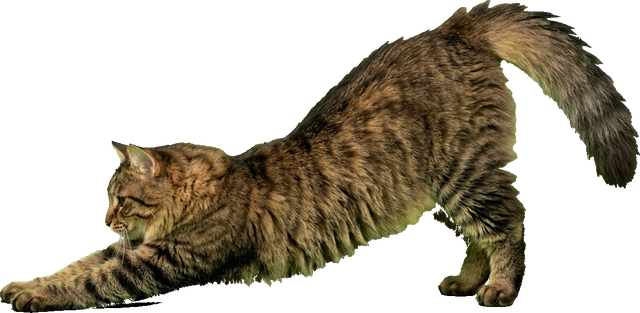
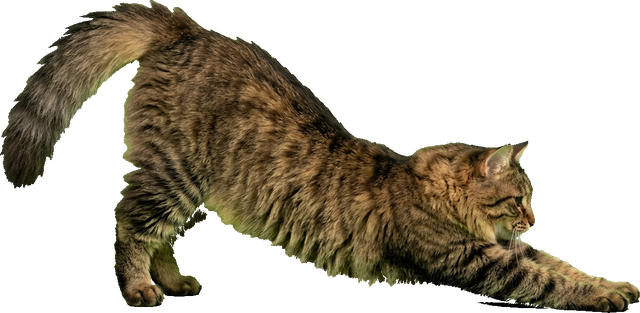
feat(cat): 猫エフェクトを「歩く→伸び→歩く」の姿勢切替＋歩行バウンドにリアル化
静止1枚のスライドから、歩き姿勢(cat-walk.png)と伸び姿勢(cat-stretch.png/右向きに統一)の
2枚を切り替える方式に。歩行中は上下に小さくバウンド、中央で立ち止まって体がぐっと伸びる。
prefers-reduced-motion時は伸び姿勢を静止表示。

diff --git a/components/NoBooksCat.tsx b/components/NoBooksCat.tsx
@@ -1,52 +1,56 @@
 "use client";
 
-// 新刊ゼロの日のための癒しエフェクト。
-// 大きな実写の猫が伸びをして、画面を横切っていく（無限ループ・ゆっくり）。
-// 装飾なので pointer-events 無効・スクリーンリーダーからは隠す。
+// 新刊ゼロの日の癒しエフェクト。
+// 実写の猫が「歩いて入ってくる→立ち止まって伸びをする→また歩いて去る」。
+// 歩行中は上下に小さくバウンドし、伸びの瞬間に体がぐっと伸びる（姿勢を2枚で切替）。
+// 装飾なので pointer-events 無効・スクリーンリーダーから隠す・動き低減設定に配慮。
 export default function NoBooksCat() {
   return (
     <div
       aria-hidden
-      style={{
-        position: "relative",
-        width: "100%",
-        height: 220,
-        overflow: "hidden",
-        marginTop: 4,
-      }}
+      style={{ position: "relative", width: "100%", height: 230, overflow: "hidden", marginTop: 4 }}
     >
-      {/* eslint-disable-next-line @next/next/no-img-element */}
-      <img
-        src="/cat-stretch.png"
-        alt=""
-        className="nobooks-cat"
-        style={{
-          position: "absolute",
-          bottom: 0,
-          left: 0,
-          width: 340,
-          height: "auto",
-          pointerEvents: "none",
-          userSelect: "none",
-        }}
-      />
+      <div className="nbc-mover">
+        {/* eslint-disable @next/next/no-img-element */}
+        <img src="/cat-walk.png" alt="" className="nbc nbc-walk" />
+        <img src="/cat-stretch.png" alt="" className="nbc nbc-stretch" />
+        {/* eslint-enable @next/next/no-img-element */}
+      </div>
       <style>{`
-        @keyframes nobooks-cat-walk {
-          0%   { transform: translateX(-360px) translateY(0)   scale(1, 1);    }
-          44%  { transform: translateX(38vw)   translateY(0)   scale(1, 1);    }
-          50%  { transform: translateX(41vw)   translateY(-6px) scale(1.05, 0.96); } /* ひと伸び */
-          56%  { transform: translateX(44vw)   translateY(0)   scale(1, 1);    }
-          100% { transform: translateX(calc(100vw + 60px)) translateY(0) scale(1, 1); }
+        .nbc-mover { position: absolute; bottom: 0; left: 0; animation: nbc-x 18s linear infinite; will-change: transform; }
+        .nbc { position: absolute; bottom: 0; left: 0; width: 340px; height: auto; pointer-events: none; user-select: none; }
+        .nbc-walk   { animation: nbc-walkfade 18s linear infinite, nbc-bob .5s ease-in-out infinite alternate; }
+        .nbc-stretch{ animation: nbc-stretch 18s linear infinite; transform-origin: bottom center; }
+
+        /* 横移動：歩いて入る → 中央で停止(伸び) → 歩いて去る */
+        @keyframes nbc-x {
+          0%   { transform: translateX(-380px); }
+          33%  { transform: translateX(40vw); }
+          60%  { transform: translateX(40vw); }
+          100% { transform: translateX(112vw); }
         }
-        .nobooks-cat {
-          animation: nobooks-cat-walk 17s ease-in-out infinite;
-          will-change: transform;
+        /* 歩き姿勢の表示（伸びの間だけ消す） */
+        @keyframes nbc-walkfade {
+          0%, 30% { opacity: 1; }
+          35%, 58% { opacity: 0; }
+          63%, 100% { opacity: 1; }
         }
-        @media (max-width: 680px) {
-          .nobooks-cat { width: 220px; }
+        /* 歩行の上下バウンド（歩き姿勢が見えている間だけ意味を持つ） */
+        @keyframes nbc-bob { from { transform: translateY(0); } to { transform: translateY(-5px); } }
+        /* 伸び姿勢：中央で出現し、ぐっと伸びてから戻る */
+        @keyframes nbc-stretch {
+          0%, 30%  { opacity: 0; transform: scale(1, 1); }
+          36%      { opacity: 1; transform: scale(1, 1); }
+          47%      { opacity: 1; transform: scale(1.06, 0.97); }
+          58%      { opacity: 1; transform: scale(1, 1); }
+          63%, 100%{ opacity: 0; transform: scale(1, 1); }
         }
+
+        @media (max-width: 680px) { .nbc { width: 230px; } }
         @media (prefers-reduced-motion: reduce) {
-          .nobooks-cat { animation: none; left: 50%; transform: translateX(-50%); }
+          .nbc-mover { animation: none; left: 50%; transform: translateX(-50%); }
+          .nbc-walk { display: none; }
+          .nbc-stretch { animation: none; opacity: 1; }
         }
       `}</style>
     </div>
